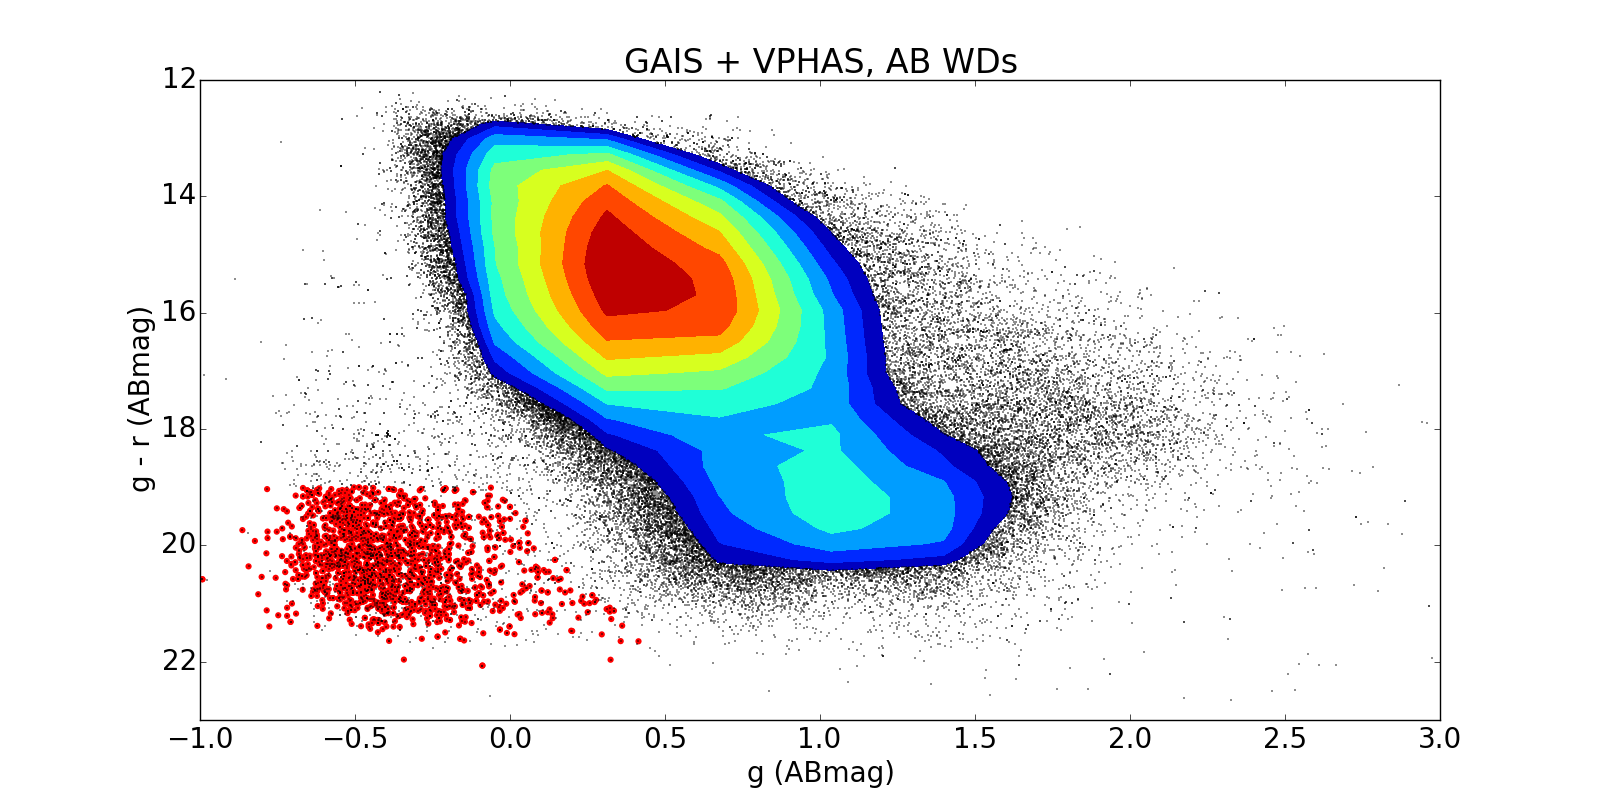
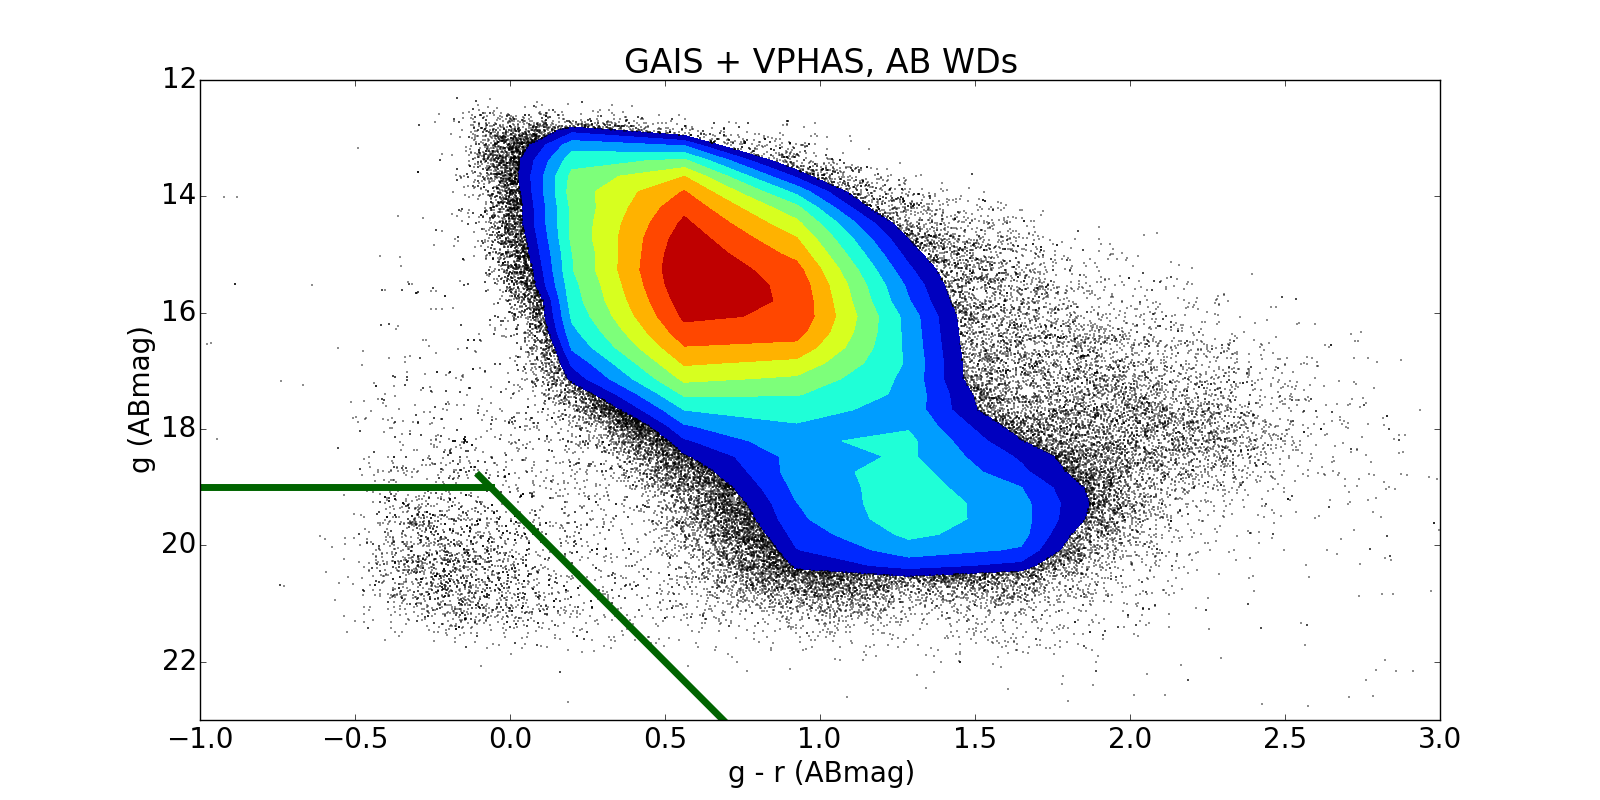
new gvsgr plots with ABmag fix

diff --git a/pipeline/misc.py b/pipeline/misc.py
@@ -892,3 +892,39 @@ plt.ylabel('g (AB)')
 plt.title('VPHAS + WDs, 200 < gl < 250, dust, 20k K')
 plt.show()
 
+
+v1cut = np.where(vphas['u_AB']-vphas['g_AB'] < 1.)
+v1 = v1[v1cut]
+
+scatter_contour((v1['g_AB']-v1['r_AB']),v1['g_AB'],threshold=1000,log_counts=True,histogram2d_args=dict(bins=40),contour_args=dict(),plot_args=dict(color='k',markersize=1))
+cut = np.where(((v1['g_AB']-v1['r_AB'])*m+b < v1['g_AB']) & (v1['g_AB'] > 19.))
+plt.scatter((v1['g_AB']-v1['r_AB'])[cut],v1['g_AB'][cut],edgecolor='none',facecolor='red')
+plt.xlim((-1,3))
+plt.ylim((22,12))
+plt.title('VPHAS only, 0 < gl < 40, u - g < 1')
+plt.xlabel('g - r')
+plt.ylabel('g')
+plt.savefig('11-25-gvsgr_vphasonly_0-40_ug1cut.png')
+plt.clf()
+
+v1cut = np.where(v1['u_AB']-v1['g_AB'] < 1.)
+
+cut = np.where(((v1['g_AB']-v1['r_AB'])*m+b < v1['g_AB']) & (v1['g_AB'] > 19.))
+
+
+cut = np.where((vpgal.galactic.l.degree > 0.) & (vpgal.galactic.l.degree < 40.))
+v1 = v1[cut]
+
+wdcut = np.where((vpwdgal.l.degree > 0.) & (vpwdgal.l.degree < 40.))
+wdv1 = vpwd[wdcut]
+
+scatter_contour((v1['g_AB']-v1['r_AB']),v1['g_AB'],threshold=1000,log_counts=True,histogram2d_args=dict(bins=40),contour_args=dict(),plot_args=dict(color='k',markersize=1))
+
+plt.scatter((wdv1['g_AB']-wdv1['r_AB']),wdv1['g_AB'],edgecolor='none',facecolor='red')
+plt.xlim((-1,3))
+plt.ylim((23,12))
+plt.title('VPHAS only, 0 < gl < 40')#, u - g < 1')
+plt.xlabel('g - r')
+plt.ylabel('g')
+#plt.savefig('11-25-gvsgr_vphasonly_0-40_ug1cut.png')
+#plt.clf()

diff --git a/pipeline/wddistance.py b/pipeline/wddistance.py
@@ -65,6 +65,14 @@ table.rename_column('col6', 'chi2')
 
 ascii.write(table, 'wd_GV_model_0.5ER.txt', format='basic')
 
+
+
+# Find minimum chi^2 value and only plot those
+chiind = []
+for i in range(0, len(table), 31*5):
+    chiind.append(np.argmin(table['chi2'][i:i+31*5])+i)
+table = table[chiind]
+
 cut = np.where(table['chi2'] < 10)
 newtable = table[cut]
 DM = np.unique(newtable['DM'])
@@ -86,7 +94,7 @@ plt.ylabel('Temperature [K]')
 cm = plt.colorbar()
 #cm.set_label('$\chi^2$ (NUV$_{obs}$ - NUV$_{mod}$)$^2$')
 cm.set_label('n$_{WDs}$')
-plt.title('GV WD model using 3D dust map, 1 R$_{Earth}$')
+plt.title('GV WD model using 3D dust map, 1 R$_{Earth}$, $\chi^2 < 10$ vals')
 plt.xlim((4,18))
 plt.show()
 
